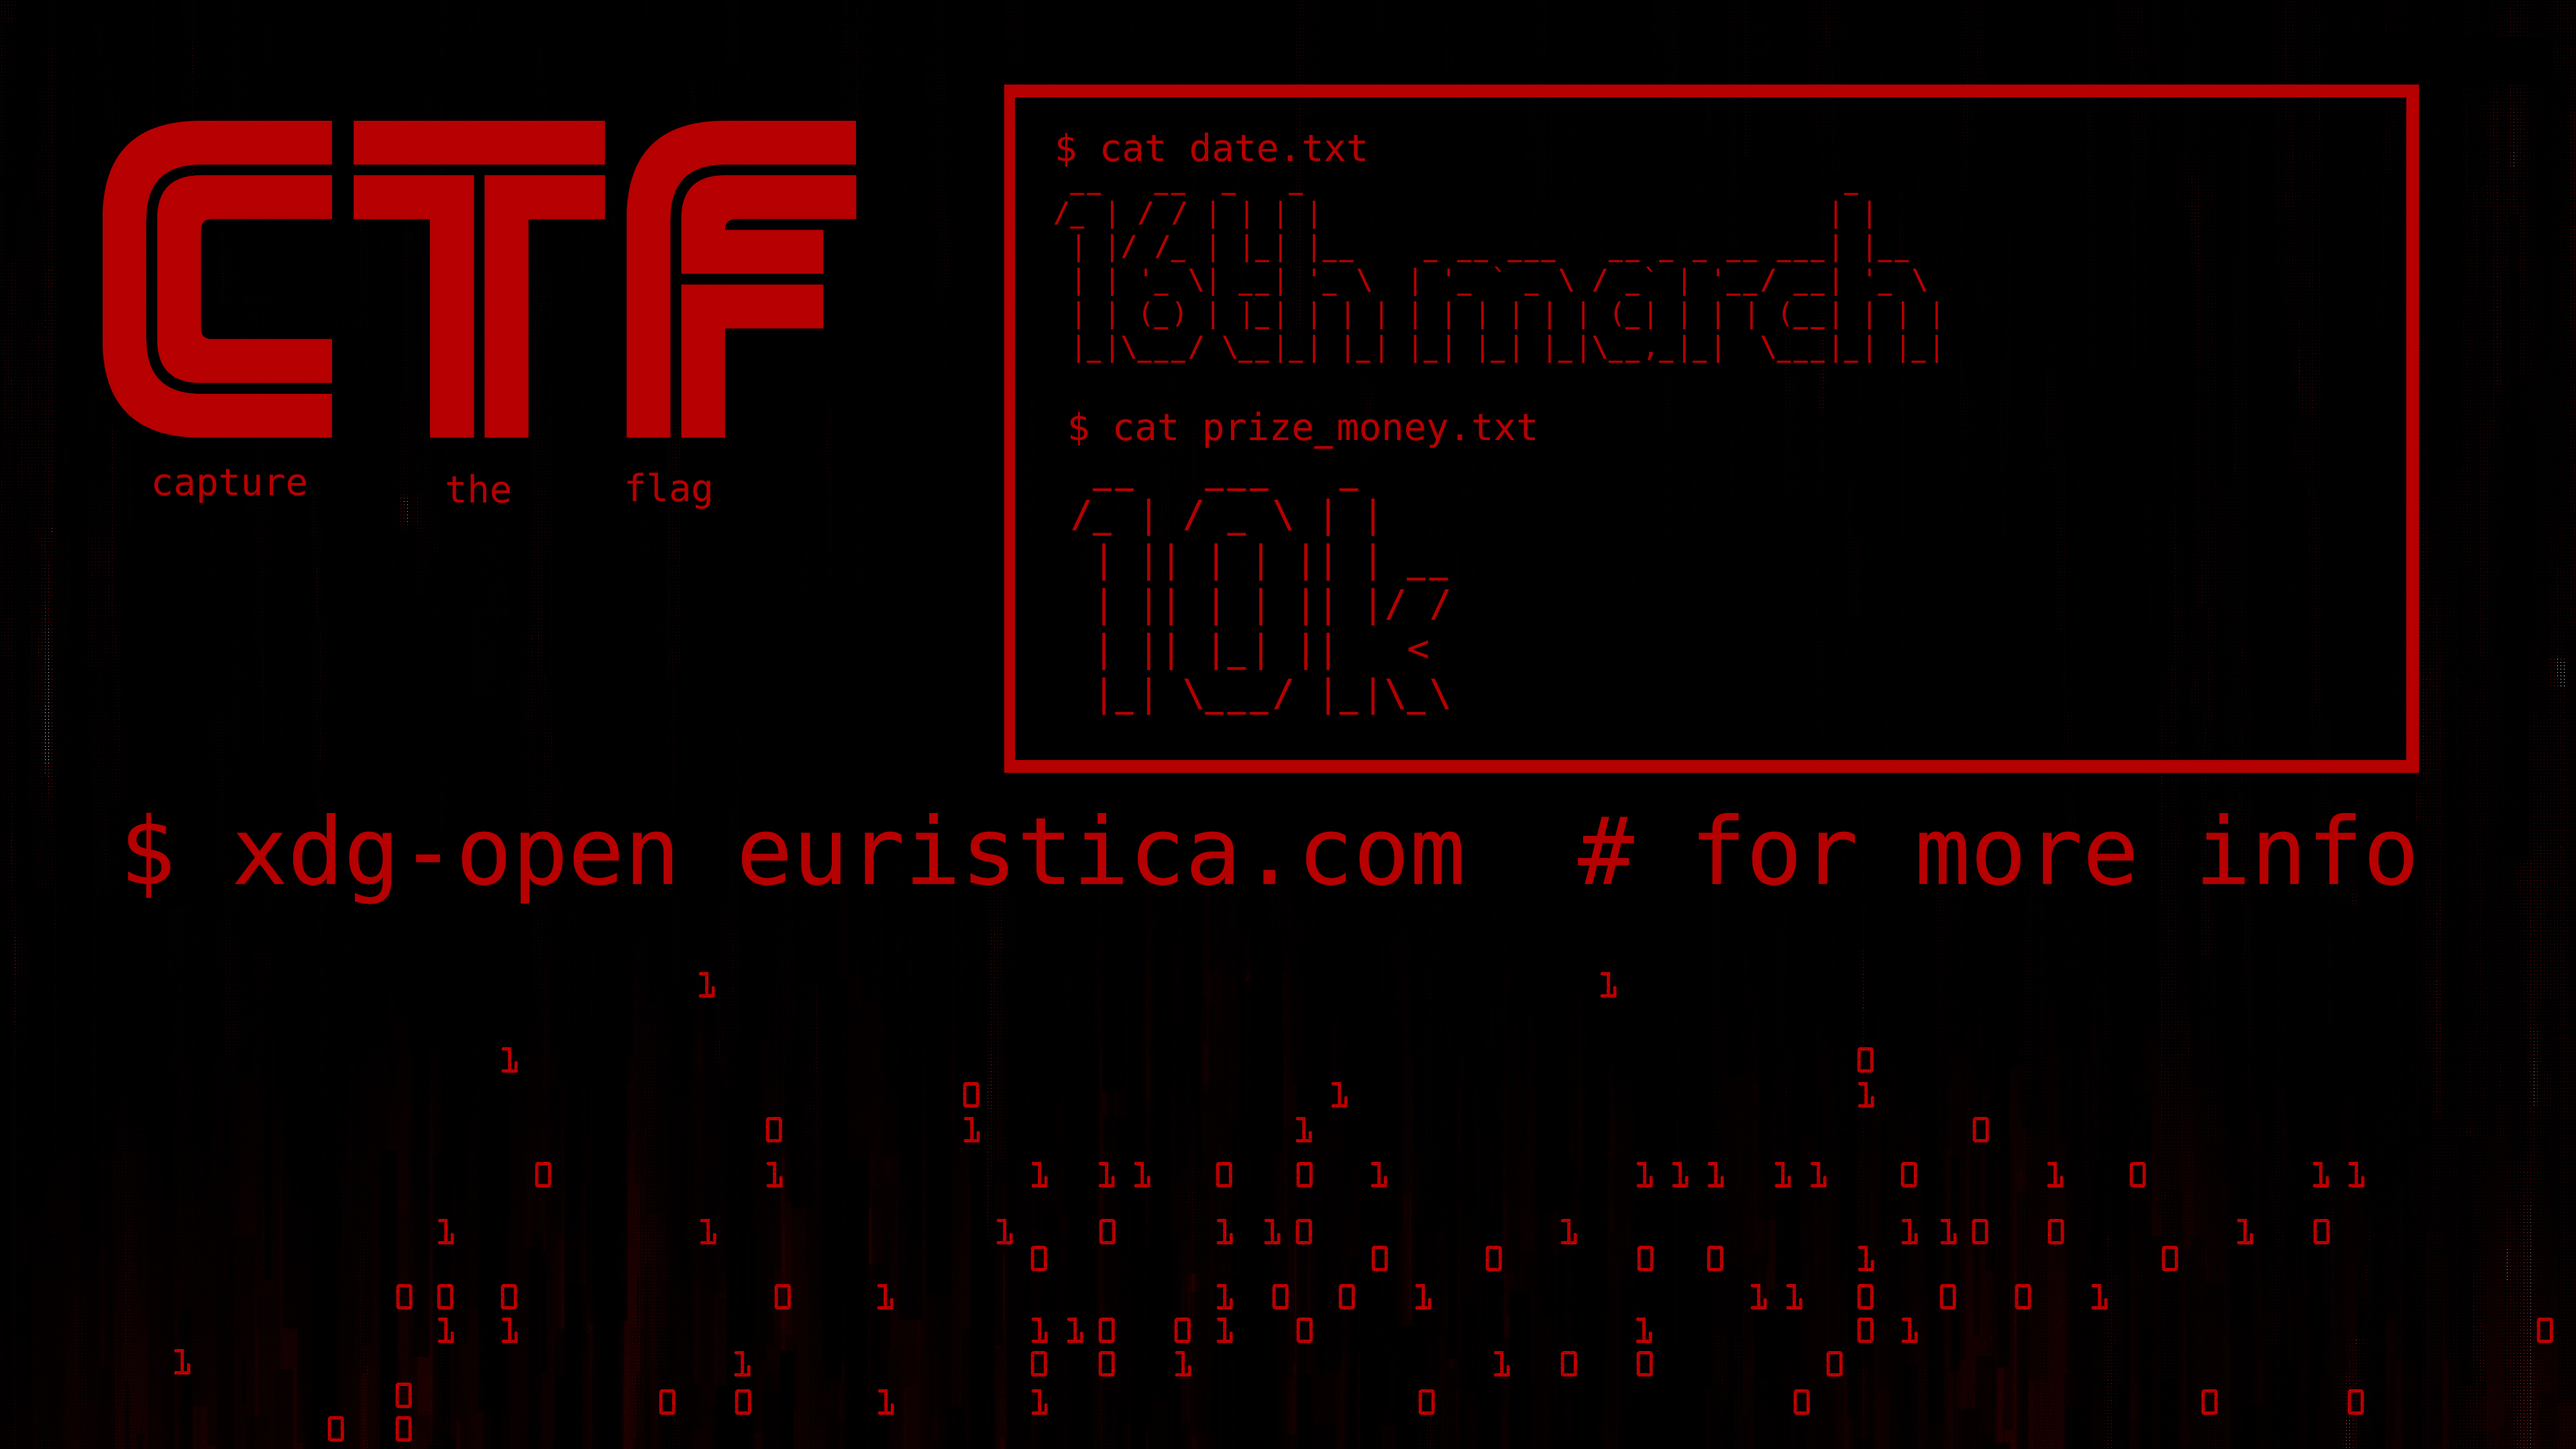
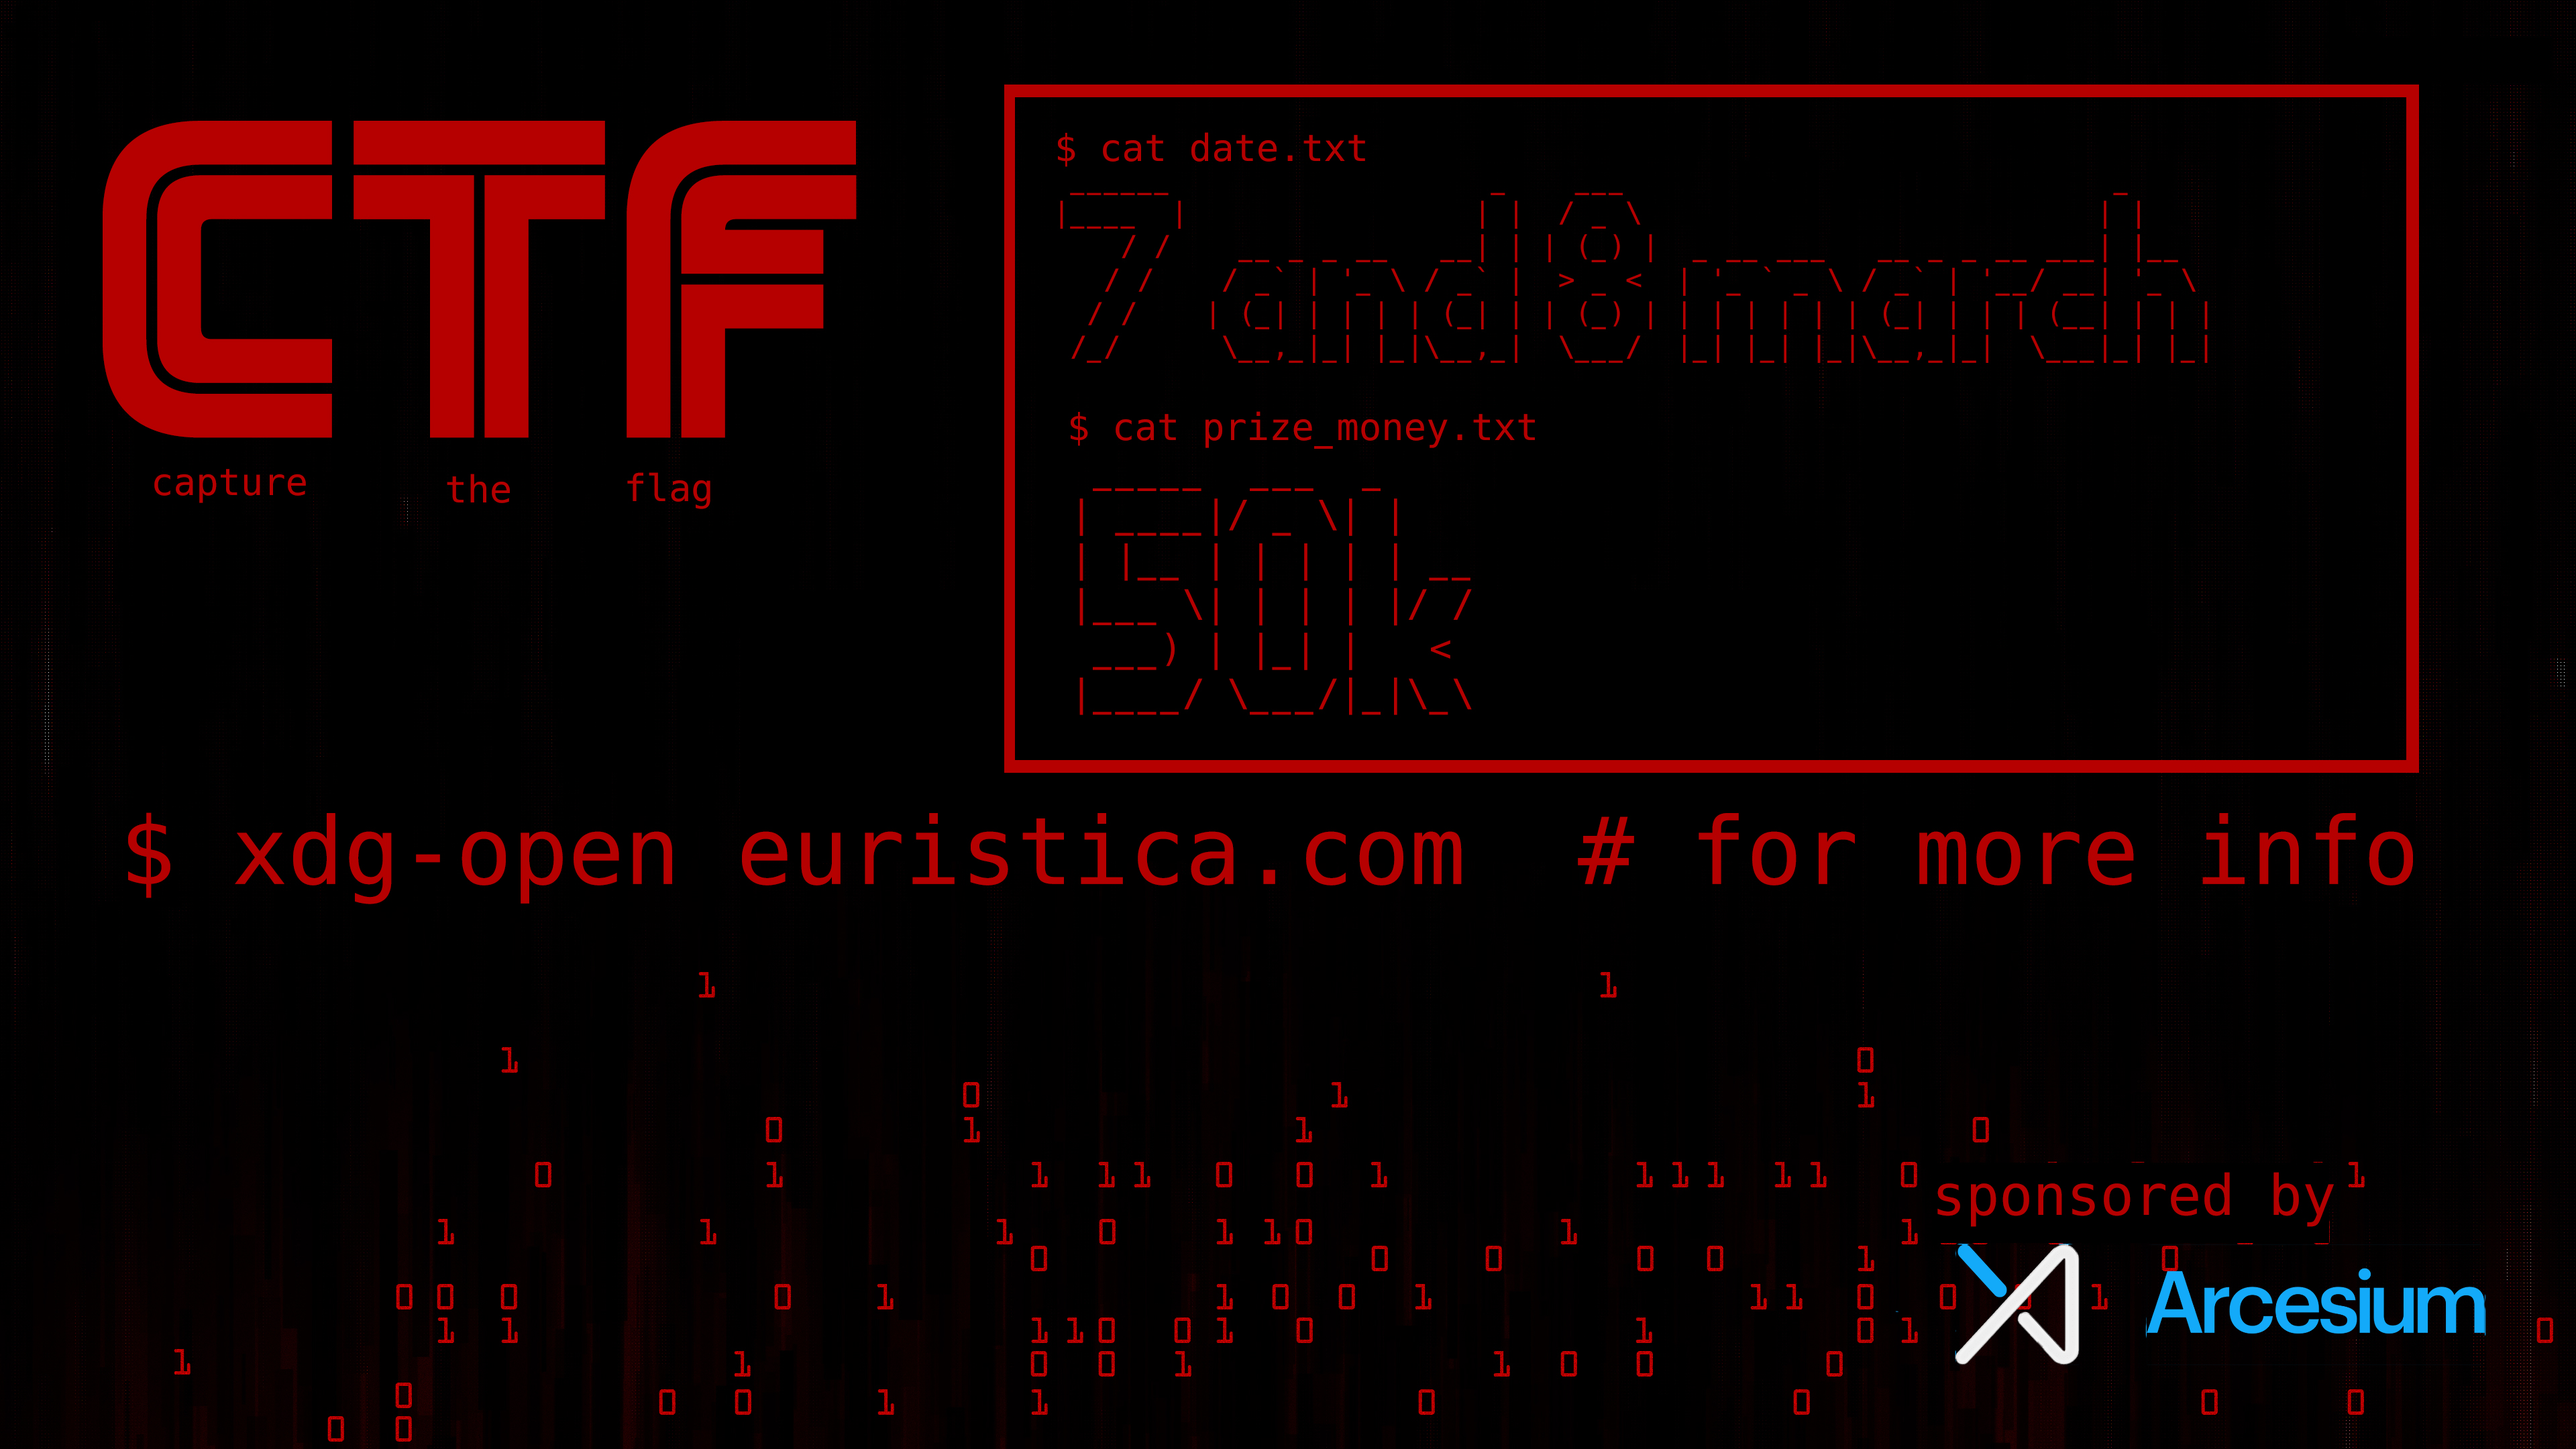
update

diff --git a/assets/js/indexData.js b/assets/js/indexData.js
@@ -25,8 +25,8 @@ var events = new Vue({
   data: {
     list: [{
       title: "Divide By Zero",
-      src: "images/dbz.jpg",
-      date: "8th April",
+      src: "images/compressed/dbz.png",
+      date: "To be announced",
       content: `
              It is a short-duration (2.5 hours)
 individual competitive programming
@@ -43,8 +43,8 @@ over the world.
     },
     {
       title: "Hackathon",
-      src: "images/hackathon.jpg",
-      date: "24th - 25th March",
+      src: "images/compressed/hackathon.png",
+      date: "23th - 24th March",
       content: `Hackathon is a team development event. The duration will be 24 to 48 hours.`,
       longContent: `
             Hackathon is a team development event. The duration will be 24 to 48 hours. Multiple
@@ -80,8 +80,8 @@ with their issue.
     },
     {
       title: "Capture The Flag",
-      src: "images/ctf.jpg",
-      date: "29th March",
+      src: "images/compressed/ctf.png",
+      date: "7th-8th April",
       content: `A special kind of cybersecurity competition designed to challenge its participants to solve
 computersecurity problems and/or capture and defend computersystems.
                     `,
@@ -99,8 +99,8 @@ rewarded.Participants needs to submit the correct flag (piece of text) in order 
     },
     {
       title: "Machine Learning Codesprint",
-      src: "images/ml.jpg",
-      date: "26th March Onwards...",
+      src: "images/compressed/ml.png",
+      date: "25th March - 8th April",
       content: `“Information is the oil of the 21st century, and analytics is the combustion engine.”`,
       longContent: `
            Artificial intelligence and analysis will shape our future more powerfully than any other
@@ -124,8 +124,8 @@ We are expecting a participation of 500+ people.
     },
     {
       title: "Code Mélange III",
-      src: "images/code_melange.jpg",
-      date: "30th March - 1st April",
+      src: "images/compressed/code_melange.png",
+      date: "30th March - 1st April, 21:00",
       content: `A long algorithmic programming
                 contest that will push your brain to
                 the limit!
@@ -144,8 +144,8 @@ difficulty and implementations, targeting everyone with interest for programming
     },
     {
       title: "Code Golf 4.0",
-      src: "images/code_golf.jpg",
-      date: "26th March",
+      src: "images/compressed/code_golf.png",
+      date: "26th March, 21:00-23:59",
       content: `Code Golf is a unique competitive coding challenge in which “Less is More".`,
       longContent: `
             The scoring is based on the
@@ -164,8 +164,8 @@ performing well and coming out at the top.
     },
     {
       title: "Surprise Language IV",
-      src: "images/surpise_language.jpg",
-      date: "28th March",
+      src: "images/compressed/surprise_language.png",
+      date: "28th March. 21:00-23:59",
       content: `‘Coz who doesn’t like surprises?`,
       longContent: `
             Are you ready for something challenging?
@@ -184,8 +184,8 @@ list of 10 languages 3 days before the contest.
     },
     {
       title: "Hack the Code",
-      src: "images/hack_the_code.jpg",
-      date: "2nd April",
+      src: "images/compressed/hack_the_code.png",
+      date: "3rd April, 21:00-23:59",
       content: `Are you a master debugger? Do you love squashing bugs? Is smashing your head on a
 wall and tearing off your hair what you love? If yes, then this contest is definitely for you!`,
       longContent: `
@@ -199,8 +199,8 @@ the basis of total time taken in hacks.
     },
     {
       title: "Fool You!",
-      src: "images/fool_you.jpg",
-      date: "4th April",
+      src: "images/compressed/fool_you.png",
+      date: "1st April, 15:00-18:00",
       content: `Fool You is a programming event which isfar from the usual ‘serious’ programming contests.`,
       longContent: `
            The unique aspect of this contest which makes it amusing is that it tests the contestants
@@ -213,7 +213,7 @@ spot clues and hints hidden in the questions.
     },
     {
       title: "al-Khwarizmi 2.0",
-      src: "images/al_khwarizmi.jpg",
+      src: "images/compressed/soh_cah_toa.png",
       date: "6th April",
       content: `Based on the norms of Project Euler, we invite you to untangle the labyrinthine of
 mathematics.`,

diff --git a/index.html b/index.html
@@ -72,7 +72,7 @@
 			<hr>
 			<div class="sponsors-container">
 				<div class="sponsor">
-					<h4>GOLD SPONSOR</h4>
+					<h4>TITLE SPONSOR</h4>
 					<a href="https://www.arcesium.com/" target="_blank">
 						<img src="https://www.arcesium.com/images/Logo.png" alt="">
 					</a>
@@ -80,7 +80,7 @@
 			</div>
 			<div class="sponsor-container">
 				<div class="sponsor">
-					<h4>PLATFORM SPONSOR</h4>
+					<h4>PLATFORM SPONSORS</h4>
 				</div>
 			</div>
 			<div class="sponsors-container">
